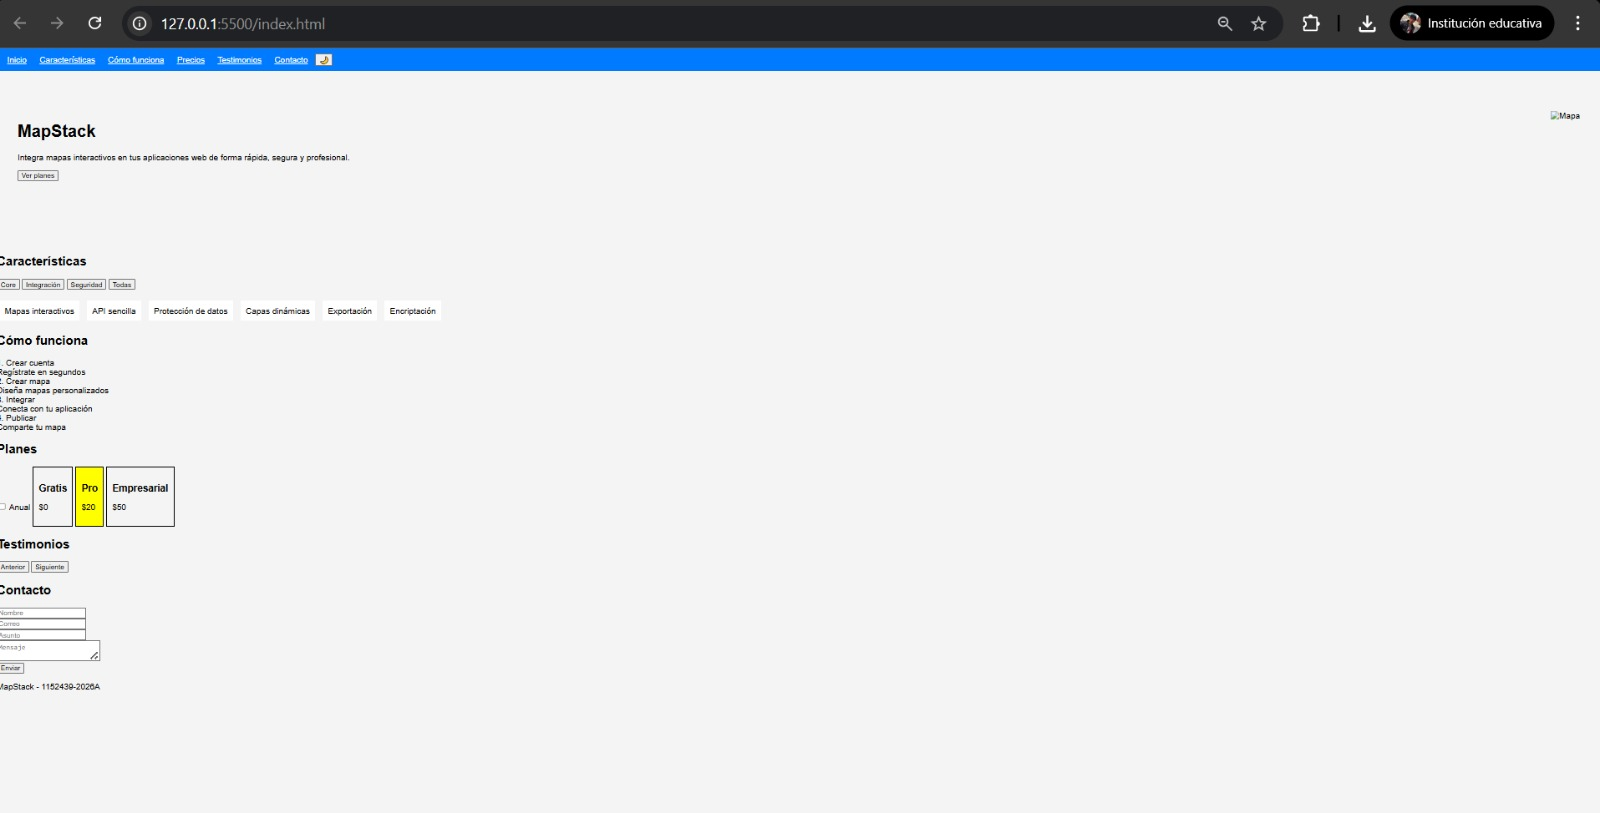
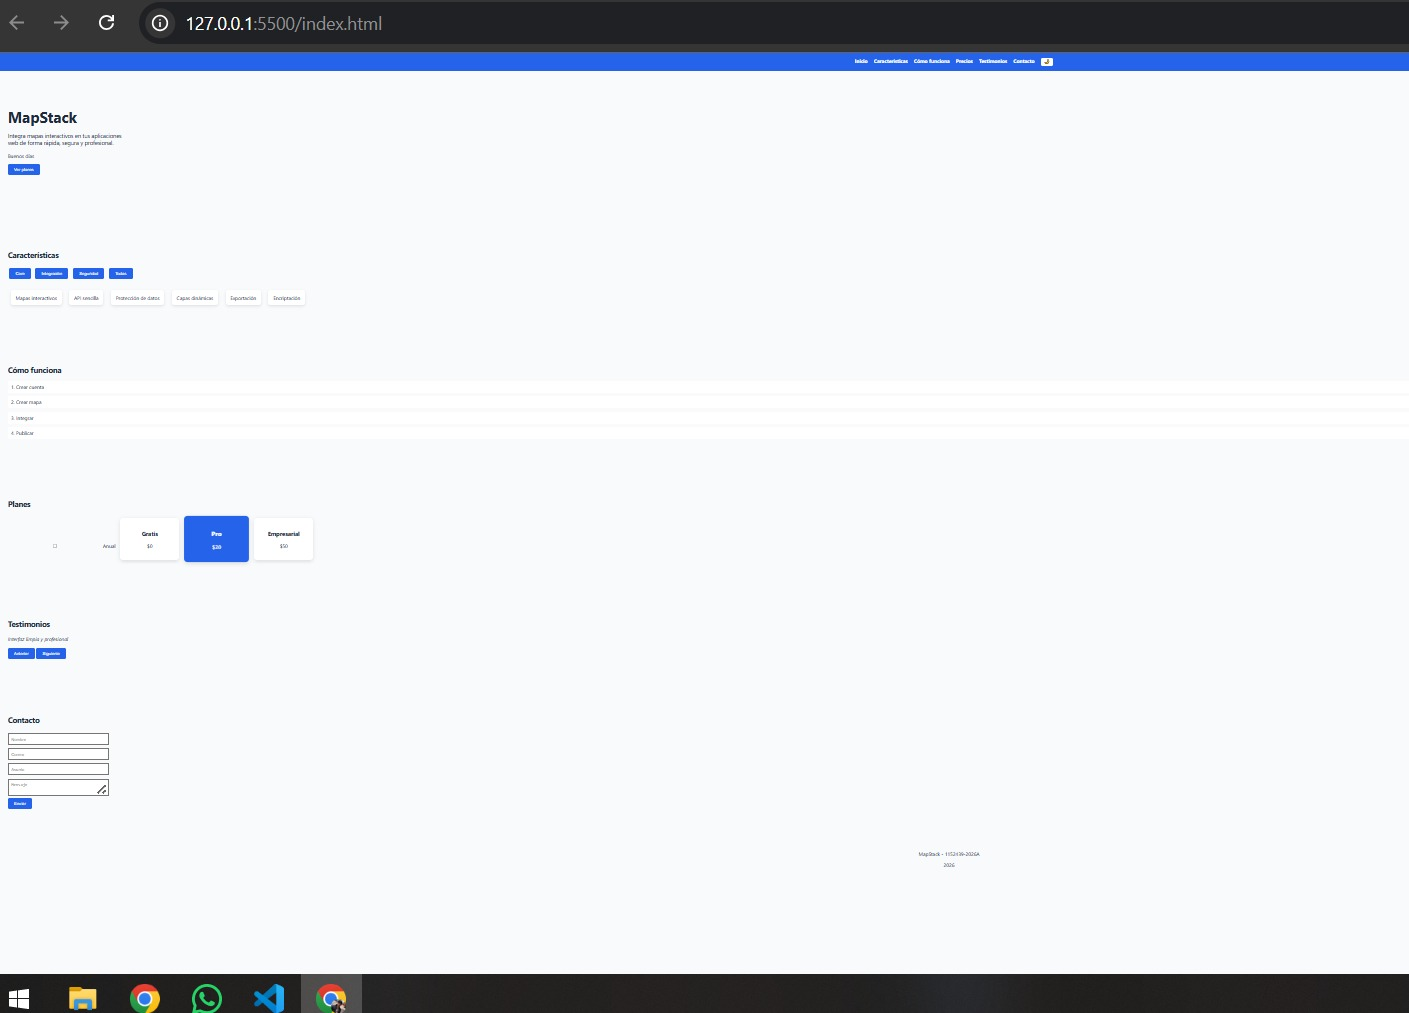
cuarto comit ajustes al css

diff --git a/scripts/app.js b/scripts/app.js
@@ -1,0 +1,179 @@
+// Token: 1152439-2026A
+
+/**
+ * Que hace: genera el año actual en el footer
+ * Por qué así: uso Date para evitar cambiarlo manualmente
+ * Alternativa desc: escribir el año manual
+ */
+function generarYear() {
+    document.getElementById("year").textContent = new Date().getFullYear();
+}
+
+/**
+ * Que hace: muestra saludo según la hora
+ * Por qué así: se obtiene la hora del sistema
+ * Alternativa desc: usar saludo fijo
+ */
+function saludoDinamico() {
+    const h = new Date().getHours();
+    let s = "";
+
+    if (h >= 5 && h <= 11) s = "Buenos días";
+    else if (h <= 18) s = "Buenas tardes";
+    else s = "Buenas noches";
+
+    document.getElementById("saludo").textContent = s;
+}
+
+/**
+ * Que hace: hace scroll suave a precios
+ * Por qué así: mejora la experiencia del usuario
+ * Alternativa desc: usar enlaces normales
+ */
+function scrollToPrecios() {
+    document.getElementById("seccion-precios")
+        .scrollIntoView({ behavior: "smooth" });
+}
+
+/**
+ * Que hace: filtra tarjetas por categoría
+ * Por qué así: uso dataset para identificar categorías
+ * Alternativa desc: usar clases CSS
+ */
+function filtrar(cat) {
+    const cards = document.querySelectorAll(".card");
+    let visibles = 0;
+
+    cards.forEach(c => {
+        if (cat === "all" || c.dataset.categoria === cat) {
+            c.style.display = "inline-block";
+            visibles++;
+        } else {
+            c.style.display = "none";
+        }
+    });
+
+    document.getElementById("contador").textContent =
+        visibles + " de " + cards.length;
+}
+
+/**
+ * Que hace: muestra u oculta detalles (acordeón)
+ * Por qué así: uso nextElementSibling
+ * Alternativa desc: usar clases CSS
+ */
+function togglePaso(el) {
+    const d = el.nextElementSibling;
+    d.style.display = d.style.display === "block" ? "none" : "block";
+}
+
+/**
+ * Que hace: cambia precios mensual/anual
+ * Por qué así: cálculo dinámico con descuento
+ * Alternativa desc: tener precios estáticos
+ */
+function cambiarPrecio() {
+    const anual = document.getElementById("togglePrecio").checked;
+    const precios = document.querySelectorAll(".precio");
+
+    precios.forEach(p => {
+        let base = p.dataset.mensual;
+        p.textContent = anual
+            ? "$" + (base * 12 * 0.8)
+            : "$" + base;
+    });
+}
+
+/**
+ * Que hace: muestra testimonios
+ * Por qué así: uso arreglo y posición
+ * Alternativa desc: HTML estático
+ */
+const textos = [
+    "Excelente plataforma de mapas interactivos",
+    "Muy fácil de integrar en proyectos web",
+    "Me ayudó bastante en mi aplicación",
+    "Interfaz limpia y profesional",
+    "Totalmente recomendada"
+];
+
+let i = 0;
+let intervalo;
+
+/**
+ * Que hace: renderiza testimonio actual
+ * Por qué así: usa índice global
+ * Alternativa desc: cambiar innerHTML completo
+ */
+function mostrarTestimonio() {
+    document.getElementById("testimonio").textContent = textos[i];
+}
+
+/**
+ * Que hace: siguiente testimonio
+ */
+function siguiente() {
+    i = (i + 1) % textos.length;
+    mostrarTestimonio();
+    reiniciarAuto();
+}
+
+/**
+ * Que hace: testimonio anterior
+ */
+function anterior() {
+    i = (i - 1 + textos.length) % textos.length;
+    mostrarTestimonio();
+    reiniciarAuto();
+}
+
+/**
+ * Que hace: auto avance cada 5 segundos
+ */
+function autoCarrusel() {
+    intervalo = setInterval(() => {
+        siguiente();
+    }, 5000);
+}
+
+/**
+ * Que hace: reinicia el temporizador al interactuar
+ */
+function reiniciarAuto() {
+    clearInterval(intervalo);
+    autoCarrusel();
+}
+
+/**
+ * Que hace: valida formulario
+ * Por qué así: validación básica requerida
+ * Alternativa desc: usar librerías externas
+ */
+function validarFormulario() {
+    let nombre = document.getElementById("nombre").value;
+    let correo = document.getElementById("correo").value;
+    let asunto = document.getElementById("asunto").value;
+    let mensaje = document.getElementById("mensaje").value;
+
+    if (nombre === "" || correo === "" || asunto.length < 5 || mensaje.length < 20) {
+        alert("Datos inválidos");
+        return false;
+    }
+
+    document.getElementById("confirmacion").textContent =
+        "Mensaje enviado correctamente";
+    return false;
+}
+
+/**
+ * Que hace: activa modo oscuro
+ */
+function toggleTema() {
+    document.body.classList.toggle("dark");
+}
+
+// INIT
+generarYear();
+saludoDinamico();
+mostrarTestimonio();
+autoCarrusel();

diff --git a/styles/main.css b/styles/main.css
@@ -1,12 +1,20 @@
 :root {
-    --primario: #007bff;
-    --fondo: #f4f4f4;
+    --primario: #2563eb;
+    --secundario: #1e293b;
+    --fondo: #f8fafc;
+    --blanco: #ffffff;
 }
 
+/* GLOBAL */
 body {
     margin: 0;
-    font-family: Arial;
+    font-family: 'Segoe UI', sans-serif;
     background: var(--fondo);
+    color: var(--secundario);
+}
+
+section {
+    padding: 80px 60px;
 }
 
 /* NAV */
@@ -15,42 +23,131 @@ body {
     top: 0;
     width: 100%;
     background: var(--primario);
-    padding: 10px;
+    padding: 15px;
+    display: flex;
+    justify-content: center;
+    gap: 20px;
 }
 
 .menu a {
     color: white;
-    margin: 10px;
+    text-decoration: none;
+    font-weight: bold;
+}
+
+.menu button {
+    background: white;
+    border: none;
+    cursor: pointer;
+    padding: 5px 10px;
 }
 
 /* HERO */
 .hero {
     display: flex;
     justify-content: space-between;
-    padding: 120px 40px;
+    align-items: center;
+    padding: 140px 60px;
 }
 
-/* TARJETAS */
+.titulo-hero {
+    font-size: 48px;
+    margin-bottom: 10px;
+}
+
+.eslogan {
+    font-size: 18px;
+    margin-bottom: 20px;
+    max-width: 400px;
+}
+
+button {
+    padding: 10px 20px;
+    border: none;
+    background: var(--primario);
+    color: white;
+    cursor: pointer;
+    border-radius: 5px;
+}
+
+/* CARDS */
+.tarjetas {
+    margin-top: 20px;
+}
+
 .card {
     display: inline-block;
-    padding: 10px;
+    background: var(--blanco);
+    padding: 15px;
+    margin: 10px;
+    border-radius: 8px;
+    box-shadow: 0 4px 10px rgba(0,0,0,0.1);
+    transition: 0.3s;
+}
+
+.card:hover {
+    transform: translateY(-5px);
+}
+
+/* FILTROS */
+.filtros button {
     margin: 5px;
-    background: white;
+}
+
+/* PASOS */
+.paso {
+    background: var(--blanco);
+    padding: 10px;
+    margin: 10px 0;
+    cursor: pointer;
+    border-radius: 5px;
+}
+
+.detalle {
+    display: none;
+    margin-left: 10px;
 }
 
 /* PLANES */
 .plan {
     display: inline-block;
-    border: 1px solid black;
-    padding: 10px;
+    background: var(--blanco);
+    padding: 20px;
+    margin: 10px;
+    border-radius: 10px;
+    width: 150px;
+    text-align: center;
+    box-shadow: 0 4px 10px rgba(0,0,0,0.1);
 }
 
 .destacado {
-    background: yellow;
+    background: var(--primario);
+    color: white;
+    transform: scale(1.1);
+}
+
+/* TESTIMONIOS */
+#testimonio {
+    font-style: italic;
+    margin: 20px 0;
+}
+
+/* FORM */
+input, textarea {
+    width: 300px;
+    padding: 8px;
+    margin: 5px 0;
+}
+
+/* FOOTER */
+footer {
+    text-align: center;
+    padding: 20px;
 }
 
 /* DARK MODE */
 body.dark {
-    --fondo: #121212;
-    color: white;
+    --fondo: #0f172a;
+    --secundario: #e2e8f0;
+    --blanco: #1e293b;
 }
